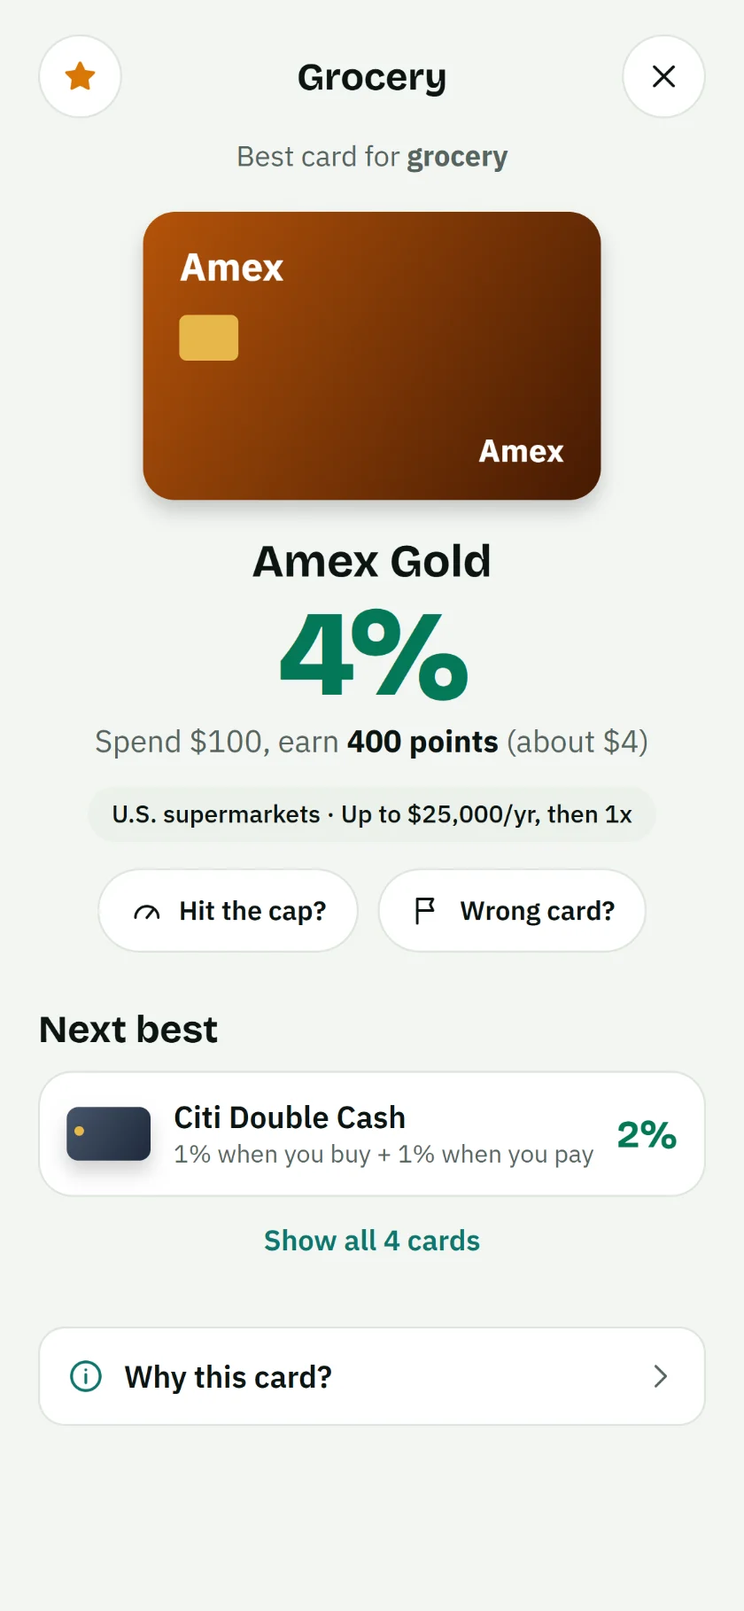
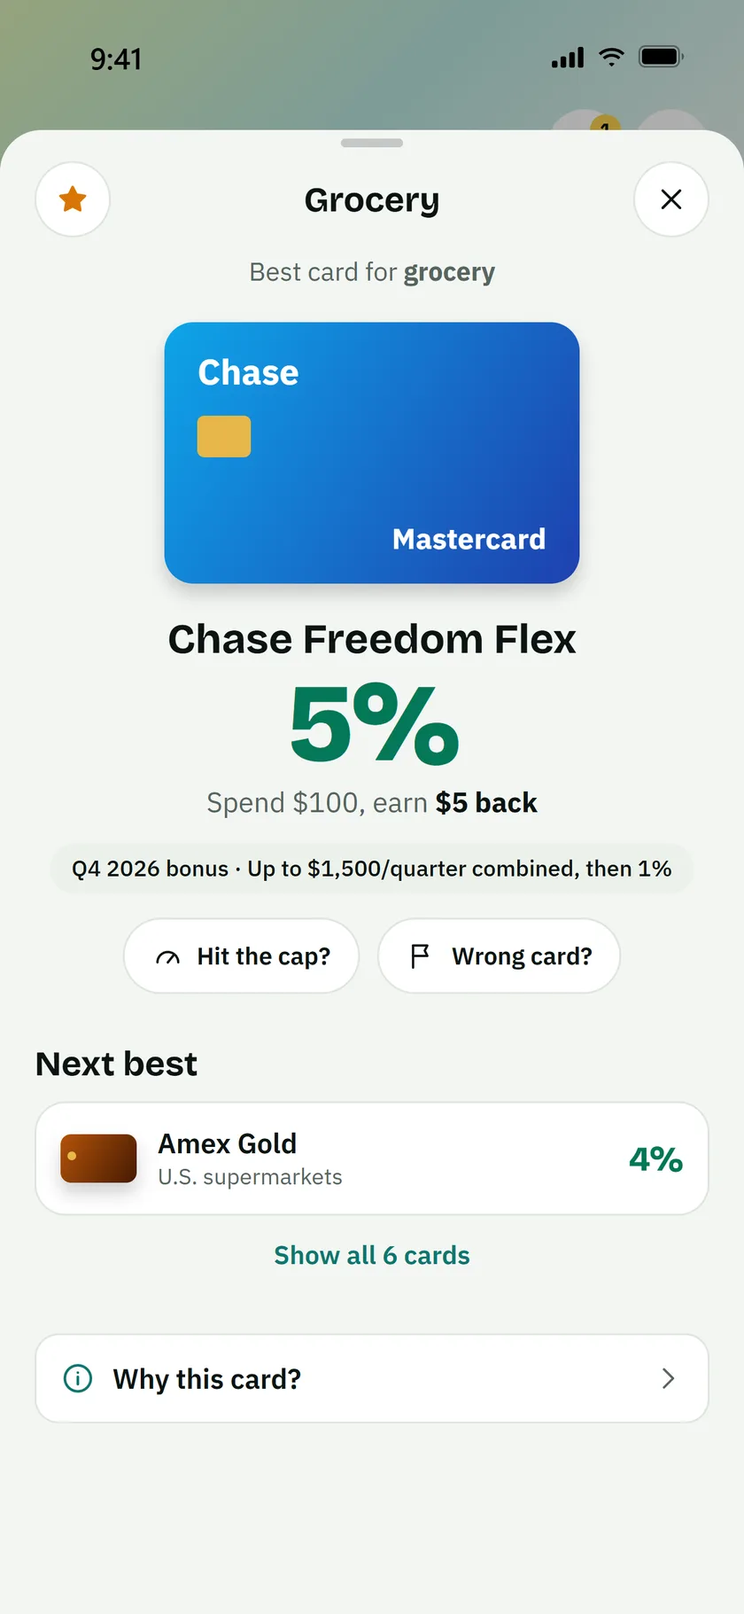
Site: new app screenshots and copy for the latest features
Screenshots retaken from the current native app (made-up wallet) with an
iPhone status bar, tab bar and sheets as on the phone: grocery answer,
Costco (Visa only), Wallet with the quarter's bonuses card, Earn with
favorites, dark wallet on About. New og.png share image.

Copy: quarter card and tips, favorites/recents, reminders on by default,
Data & Privacy paths for backup and erase, feedback sent directly,
110+ cards from 30 banks. Phone frame no longer adds a status-bar gap.

diff --git a/site/index.html b/site/index.html
@@ -45,7 +45,7 @@
   <section class="hero">
     <div class="wrap">
       <div class="hero-copy">
-        <span class="pill-note"><span>New</span>Reminders for quarterly 5% bonuses</span>
+        <span class="pill-note"><span>New</span>This quarter's 5% bonuses at a glance</span>
         <h1><span class="hl">Use the right card.</span> Every time.</h1>
         <p class="lede">Lucro shows which of your credit cards earns the most at any store, in one tap. No bank logins, no card numbers, and nothing leaves your phone.</p>
         <div class="hero-actions" id="get">
@@ -61,7 +61,7 @@
     <div class="hero-stage" aria-hidden="true">
       <div class="float a">
         <div class="float-label">At the grocery store</div>
-        <div class="float-row" style="margin-top:8px"><span class="mini-card"></span><div><div style="font-weight:600">Amex Gold</div><div class="float-big rate">4%</div></div></div>
+        <div class="float-row" style="margin-top:8px"><span class="mini-card flex"></span><div><div style="font-weight:600;white-space:nowrap">Freedom Flex</div><div class="float-big rate">5%</div></div></div>
       </div>
       <div class="float b">
         <div class="float-row"><span class="float-ic"><svg viewBox="0 0 24 24" fill="none" stroke="currentColor" stroke-width="2" stroke-linecap="round" stroke-linejoin="round"><path d="M13 3L5 13.5h6L10 21l8-10.5h-6z"/></svg></span>
@@ -71,7 +71,7 @@
         <span class="float-ic"><svg viewBox="0 0 24 24" fill="none" stroke="currentColor" stroke-width="2" stroke-linecap="round" stroke-linejoin="round"><rect x="5" y="11" width="14" height="10" rx="2"/><path d="M8 11V8a4 4 0 0 1 8 0v3"/></svg></span>
         <div><div class="float-label">App privacy</div><div style="font-weight:600">Data Not Collected</div></div>
       </div>
-      <div class="phone"><img src="assets/img/app-answer.webp" alt="Lucro answer screen: at the grocery store, use Amex Gold for 4% back" width="840" height="1818"></div>
+      <div class="phone"><img src="assets/img/app-answer.webp" alt="Lucro answer screen: at the grocery store, use Chase Freedom Flex for 5% back this quarter, with Amex Gold at 4% as next best" width="840" height="1821"></div>
     </div>
   </section>
 
@@ -79,7 +79,7 @@
     <div class="wrap trust-in">
       <div class="trust-item"><svg viewBox="0 0 24 24" fill="none" stroke="currentColor" stroke-width="1.8" stroke-linecap="round" stroke-linejoin="round" aria-hidden="true"><path d="M12 3l8 3v6c0 4.5-3.4 8.4-8 9-4.6-.6-8-4.5-8-9V6z"/><path d="M9 12l2 2 4-4"/></svg><div><b>No bank logins</b><span>Never asks for passwords or card numbers</span></div></div>
       <div class="trust-item"><svg viewBox="0 0 24 24" fill="none" stroke="currentColor" stroke-width="1.8" stroke-linecap="round" stroke-linejoin="round" aria-hidden="true"><rect x="5" y="11" width="14" height="10" rx="2"/><path d="M8 11V8a4 4 0 0 1 8 0v3"/></svg><div><b>Data not collected</b><span>Your wallet stays on your phone</span></div></div>
-      <div class="trust-item"><svg viewBox="0 0 24 24" fill="none" stroke="currentColor" stroke-width="1.8" stroke-linecap="round" stroke-linejoin="round" aria-hidden="true"><rect x="3" y="5" width="18" height="14" rx="2"/><path d="M3 10h18M7 15h4"/></svg><div><b>90+ cards</b><span>From 25+ banks, kept up to date</span></div></div>
+      <div class="trust-item"><svg viewBox="0 0 24 24" fill="none" stroke="currentColor" stroke-width="1.8" stroke-linecap="round" stroke-linejoin="round" aria-hidden="true"><rect x="3" y="5" width="18" height="14" rx="2"/><path d="M3 10h18M7 15h4"/></svg><div><b>110+ cards</b><span>From 30 banks, kept up to date</span></div></div>
       <div class="trust-item"><svg viewBox="0 0 24 24" fill="none" stroke="currentColor" stroke-width="1.8" stroke-linecap="round" stroke-linejoin="round" aria-hidden="true"><path d="M3 12V4a1 1 0 0 1 1-1h8l9 9-9 9z"/><circle cx="8" cy="8" r="1.5"/></svg><div><b>200+ stores</b><span>Search any store or category</span></div></div>
     </div>
   </section>
@@ -105,42 +105,42 @@
         <div>
           <div class="eyebrow">The right card at every store</div>
           <h2>Stop guessing at <span class="mark">checkout</span></h2>
-          <p class="body">Rotating 5% categories, store-specific bonuses, points versus cash back. Lucro compares every card in your wallet and shows the one that pays you most, in plain dollars.</p>
+          <p class="body">Rotating 5% categories, store-specific bonuses, points versus cash back. Lucro compares every card in your wallet and shows the one that pays you most, in plain dollars, plus the next best card in case the first isn't accepted.</p>
           <ul class="checks">
             <li><svg viewBox="0 0 24 24" fill="none" stroke="currentColor" stroke-width="2" stroke-linecap="round" stroke-linejoin="round" aria-hidden="true"><path d="M5 12l5 5 9-10"/></svg>Points and miles valued fairly against cash back</li>
             <li><svg viewBox="0 0 24 24" fill="none" stroke="currentColor" stroke-width="2" stroke-linecap="round" stroke-linejoin="round" aria-hidden="true"><path d="M5 12l5 5 9-10"/></svg>Knows store rules, like Costco only taking Visa</li>
             <li><svg viewBox="0 0 24 24" fill="none" stroke="currentColor" stroke-width="2" stroke-linecap="round" stroke-linejoin="round" aria-hidden="true"><path d="M5 12l5 5 9-10"/></svg>Spending caps tracked, so you switch cards at the right time</li>
           </ul>
         </div>
-        <div class="split-art"><div class="phone"><img src="assets/img/app-answer.webp" alt="Answer screen showing Amex Gold at 4% for groceries, with Citi Double Cash as next best" loading="lazy" width="840" height="1818"></div></div>
+        <div class="split-art"><div class="phone"><img src="assets/img/app-store.webp" alt="Answer screen for Costco: Costco Visa earns 2%, and Lucro notes that Costco takes only Visa credit cards" loading="lazy" width="840" height="1821"></div></div>
       </div>
 
       <div class="split flip reveal">
         <div>
           <div class="eyebrow">Never miss a bonus</div>
           <h2>Quarterly 5% categories, handled</h2>
-          <p class="body">Many cards make you activate bonuses or pick categories every quarter. Lucro reminds you before the deadline and keeps your picks in sync, so the 5% never slips by.</p>
+          <p class="body">Many cards make you activate bonuses or pick categories every quarter. Your wallet opens with this quarter's bonuses: what each card pays, how many days are left, and a button for anything still to do. Reminders cover the rest, so the 5% never slips by.</p>
           <ul class="checks">
-            <li><svg viewBox="0 0 24 24" fill="none" stroke="currentColor" stroke-width="2" stroke-linecap="round" stroke-linejoin="round" aria-hidden="true"><path d="M5 12l5 5 9-10"/></svg>Reminders a week and a day before activation deadlines</li>
-            <li><svg viewBox="0 0 24 24" fill="none" stroke="currentColor" stroke-width="2" stroke-linecap="round" stroke-linejoin="round" aria-hidden="true"><path d="M5 12l5 5 9-10"/></svg>One tap to confirm next quarter's picks</li>
+            <li><svg viewBox="0 0 24 24" fill="none" stroke="currentColor" stroke-width="2" stroke-linecap="round" stroke-linejoin="round" aria-hidden="true"><path d="M5 12l5 5 9-10"/></svg>Activate, choose or keep your picks right from the wallet</li>
+            <li><svg viewBox="0 0 24 24" fill="none" stroke="currentColor" stroke-width="2" stroke-linecap="round" stroke-linejoin="round" aria-hidden="true"><path d="M5 12l5 5 9-10"/></svg>Reminders when a bonus opens and a week and a day before it's due</li>
             <li><svg viewBox="0 0 24 24" fill="none" stroke="currentColor" stroke-width="2" stroke-linecap="round" stroke-linejoin="round" aria-hidden="true"><path d="M5 12l5 5 9-10"/></svg>Reminders are created on your phone, not on a server</li>
           </ul>
         </div>
-        <div class="split-art"><div class="phone"><img src="assets/img/app-notifications.webp" alt="Notifications screen with a reminder to activate the Q4 bonus by December 14" loading="lazy" width="840" height="1818"></div></div>
+        <div class="split-art"><div class="phone"><img src="assets/img/app-wallet.webp" alt="Wallet screen with a Q4 2026 bonuses card: Chase Freedom Flex 5% to activate by December 14, and U.S. Bank Cash+ picks set" loading="lazy" width="840" height="1821"></div></div>
       </div>
 
       <div class="split reveal">
         <div>
-          <div class="eyebrow">Your wallet, organized</div>
-          <h2>See what every card is best for</h2>
-          <p class="body">Your top rate, your everyday rate, and what each card shines at, all on one screen. Sort, filter, pin favorites, and drag cards into your own order.</p>
+          <div class="eyebrow">Your places, one tap away</div>
+          <h2>Favorites for the stores you visit most</h2>
+          <p class="body">Star any answer to keep it on your Earn screen, next to your recent searches. Anywhere else, type the store name or pick what kind of place it is.</p>
           <ul class="checks">
-            <li><svg viewBox="0 0 24 24" fill="none" stroke="currentColor" stroke-width="2" stroke-linecap="round" stroke-linejoin="round" aria-hidden="true"><path d="M5 12l5 5 9-10"/></svg>"Best for" tags on every card</li>
-            <li><svg viewBox="0 0 24 24" fill="none" stroke="currentColor" stroke-width="2" stroke-linecap="round" stroke-linejoin="round" aria-hidden="true"><path d="M5 12l5 5 9-10"/></svg>Back up to iCloud Drive and restore on a new phone</li>
+            <li><svg viewBox="0 0 24 24" fill="none" stroke="currentColor" stroke-width="2" stroke-linecap="round" stroke-linejoin="round" aria-hidden="true"><path d="M5 12l5 5 9-10"/></svg>Favorites and recents, ready when you get to the register</li>
+            <li><svg viewBox="0 0 24 24" fill="none" stroke="currentColor" stroke-width="2" stroke-linecap="round" stroke-linejoin="round" aria-hidden="true"><path d="M5 12l5 5 9-10"/></svg>Store missing? Request it right from the search</li>
             <li><svg viewBox="0 0 24 24" fill="none" stroke="currentColor" stroke-width="2" stroke-linecap="round" stroke-linejoin="round" aria-hidden="true"><path d="M5 12l5 5 9-10"/></svg>Works offline, even in a store with no signal</li>
           </ul>
         </div>
-        <div class="split-art"><div class="phone"><img src="assets/img/app-wallet.webp" alt="Wallet screen with a 5% top rate, 2% everyday rate and each card's best categories" loading="lazy" width="840" height="1818"></div></div>
+        <div class="split-art"><div class="phone"><img src="assets/img/app-earn.webp" alt="Earn screen greeting Alex, with a store search, favorites like Grocery, Costco and Amazon, and popular categories" loading="lazy" width="840" height="1821"></div></div>
       </div>
     </div>
   </section>
@@ -168,8 +168,12 @@
       <div class="grid4">
         <div class="feat reveal"><div class="feat-ic"><svg viewBox="0 0 24 24" fill="none" stroke="currentColor" stroke-width="1.8" stroke-linecap="round" stroke-linejoin="round" aria-hidden="true"><circle cx="11" cy="11" r="7"/><path d="M20 20l-4-4"/></svg></div><h3>Store search</h3><p>Type a store name and get the winner instantly, or pick a category for local shops.</p></div>
         <div class="feat reveal"><div class="feat-ic"><svg viewBox="0 0 24 24" fill="none" stroke="currentColor" stroke-width="1.8" stroke-linecap="round" stroke-linejoin="round" aria-hidden="true"><path d="M4 6h16M4 12h16M4 18h10"/></svg></div><h3>Category picks</h3><p>For cards where you choose your bonus categories, Lucro uses the ones you picked.</p></div>
-        <div class="feat reveal"><div class="feat-ic"><svg viewBox="0 0 24 24" fill="none" stroke="currentColor" stroke-width="1.8" stroke-linecap="round" stroke-linejoin="round" aria-hidden="true"><path d="M6 8a6 6 0 0 1 12 0c0 7 3 9 3 9H3s3-2 3-9"/><path d="M10.3 21a1.9 1.9 0 0 0 3.4 0"/></svg></div><h3>Deadline reminders</h3><p>Optional heads-ups before bonuses and picks are due. Off until you turn them on.</p></div>
+        <div class="feat reveal"><div class="feat-ic"><svg viewBox="0 0 24 24" fill="none" stroke="currentColor" stroke-width="1.8" stroke-linecap="round" stroke-linejoin="round" aria-hidden="true"><path d="M6 8a6 6 0 0 1 12 0c0 7 3 9 3 9H3s3-2 3-9"/><path d="M10.3 21a1.9 1.9 0 0 0 3.4 0"/></svg></div><h3>Deadline reminders</h3><p>Heads-ups when a bonus opens and before bonuses and picks are due. Choose which ones you get.</p></div>
         <div class="feat reveal"><div class="feat-ic"><svg viewBox="0 0 24 24" fill="none" stroke="currentColor" stroke-width="1.8" stroke-linecap="round" stroke-linejoin="round" aria-hidden="true"><path d="M12 3v12M7 10l5 5 5-5M5 21h14"/></svg></div><h3>Backups you own</h3><p>Save a backup file to iCloud Drive or Files. Restore it any time, on any phone.</p></div>
+        <div class="feat reveal"><div class="feat-ic"><svg viewBox="0 0 24 24" fill="none" stroke="currentColor" stroke-width="1.8" stroke-linecap="round" stroke-linejoin="round" aria-hidden="true"><path d="M8 21h8M12 17v4M7 4h10v5a5 5 0 0 1-10 0z"/><path d="M17 5h3v2a3 3 0 0 1-3 3M7 5H4v2a3 3 0 0 0 3 3"/></svg></div><h3>Wallet tips</h3><p>A fresh tip each time you open your wallet: a place where one of your cards beats your everyday rate.</p></div>
+        <div class="feat reveal"><div class="feat-ic"><svg viewBox="0 0 24 24" fill="none" stroke="currentColor" stroke-width="1.8" stroke-linecap="round" stroke-linejoin="round" aria-hidden="true"><path d="M7 4v16M3 16l4 4 4-4M17 20V4M13 8l4-4 4 4"/></svg></div><h3>Sort, filter, pin</h3><p>Sort by rewards, name or bank, filter by network or fee, and pin the card you reach for most.</p></div>
+        <div class="feat reveal"><div class="feat-ic"><svg viewBox="0 0 24 24" fill="none" stroke="currentColor" stroke-width="1.8" stroke-linecap="round" stroke-linejoin="round" aria-hidden="true"><path d="M5 12l1.5 0M12 3v1.5M3.5 3.5l1 1"/><circle cx="12" cy="12" r="4"/><path d="M12 19.5V21M19.5 12H21M17.3 17.3l1 1M17.3 6.7l1-1M6.7 17.3l-1 1"/></svg></div><h3>Light and dark</h3><p>Follows your phone's setting, or pick light or dark in Profile.</p></div>
+        <div class="feat reveal"><div class="feat-ic"><svg viewBox="0 0 24 24" fill="none" stroke="currentColor" stroke-width="1.8" stroke-linecap="round" stroke-linejoin="round" aria-hidden="true"><path d="M5 21V4h11l-1.5 4L16 12H5"/></svg></div><h3>Spot a wrong answer?</h3><p>Tap Wrong card? and your note comes straight to us, so store and card rules get fixed for everyone.</p></div>
       </div>
     </div>
   </section>

diff --git a/site/support.html b/site/support.html
@@ -56,19 +56,19 @@
     <div class="wrap">
       <div class="section-head reveal"><h2>Frequently asked questions</h2></div>
       <div class="faq" id="faq-list">
-        <details><summary>Which cards does Lucro support?</summary><div class="answer"><p>More than 90 popular cards from over 25 banks, including Chase, American Express, Capital One, Citi, Discover, Bank of America, Wells Fargo and U.S. Bank. Missing one you carry? Email us and we'll look at adding it.</p></div></details>
+        <details><summary>Which cards does Lucro support?</summary><div class="answer"><p>More than 110 popular cards from 30 banks, including Chase, American Express, Capital One, Citi, Discover, Bank of America, Wells Fargo and U.S. Bank. Missing one you carry? Tap Request a card in Profile (or email us) and we'll look at adding it.</p></div></details>
         <details><summary>Do I need to create an account?</summary><div class="answer"><p>No. There's no sign-up, email or password. Open the app, pick the cards you carry, and you're ready.</p></div></details>
         <details><summary>Why doesn't Lucro ask for my bank login or card numbers?</summary><div class="answer"><p>It doesn't need them. Knowing which cards you have is enough to compare their rewards. Lucro will never ask for a full card number, a bank password or access to your accounts. You can optionally add a card's last 4 digits to help you spot it at checkout; they stay on your phone.</p></div></details>
         <details><summary>How does Lucro pick the best card?</summary><div class="answer"><p>For the store or category you choose, Lucro applies each card's published rewards rules: everyday rates, store and category bonuses, rotating quarterly 5% categories, categories you picked, and spending caps you've reached.</p><p>Points and miles are counted at a conservative cents-per-point value so they compare fairly with cash back. Tap "Why this card?" on any answer to see the reasoning.</p></div></details>
         <details><summary>Why are some of my cards missing at Costco?</summary><div class="answer"><p>Costco warehouses in the U.S. only accept Visa credit cards, so Lucro hides cards on other networks there and tells you how many it left out.</p></div></details>
-        <details><summary>What does "activate" mean for quarterly bonuses?</summary><div class="answer"><p>Some cards, like Chase Freedom Flex and Discover it, pay 5% in categories that change every quarter, but only after you activate the bonus with your bank. Tap Activate now in Lucro's notifications to open your bank, then come back and confirm. Lucro counts the bonus once you've marked it activated.</p></div></details>
-        <details><summary>How do category picks work?</summary><div class="answer"><p>Cards like U.S. Bank Cash+ and Bank of America Customized Cash let you choose your bonus categories. Pick the same ones in Lucro that you chose with your bank, and Lucro uses them when ranking. Near the end of each quarter it asks whether to keep the same picks.</p></div></details>
-        <details><summary>How do deadline reminders work?</summary><div class="answer"><p>Turn them on in Profile, then Deadline reminders. Lucro schedules notifications on your phone a week and a day before an activation deadline, when a new quarter's bonus opens, and when it's time to confirm next quarter's picks. Reminders are created on your device, not sent from a server. Turn them off any time in the same place.</p></div></details>
-        <details><summary>How do I back up my wallet or move to a new phone?</summary><div class="answer"><p>In Profile, tap Save a backup file and save it to iCloud Drive or Files. On your new phone, open Lucro and tap Restore it on the welcome screen (or Restore from a backup in Profile) and choose the file. Backups include your cards, picks and favorites, never card numbers.</p></div></details>
-        <details><summary>Lucro picked the wrong card. What should I do?</summary><div class="answer"><p>Tap Wrong card? on the answer and tell us what happened. Your report is saved in Notifications, where you can share it with us. Reports help us fix store categories and card terms for everyone.</p></div></details>
+        <details><summary>What does "activate" mean for quarterly bonuses?</summary><div class="answer"><p>Some cards, like Chase Freedom Flex and Discover it, pay 5% in categories that change every quarter, but only after you activate the bonus with your bank. Tap Activate on the quarter's bonuses at the top of your Wallet (or in Notifications) to open your bank, then come back and confirm. Lucro counts the bonus once you've marked it activated.</p></div></details>
+        <details><summary>How do category picks work?</summary><div class="answer"><p>Cards like U.S. Bank Cash+ and Bank of America Customized Cash let you choose your bonus categories. Pick the same ones in Lucro that you chose with your bank, and Lucro uses them when ranking. You can choose them right from the quarter's bonuses in your Wallet, and near the end of each quarter Lucro asks whether to keep the same picks.</p></div></details>
+        <details><summary>How do deadline reminders work?</summary><div class="answer"><p>The first time your wallet has a card with quarterly deadlines, Lucro asks if it can send you notifications. It then schedules them on your phone when a new quarter's bonus opens, a week and a day before an activation deadline, and when it's time to choose next quarter's picks. Reminders are created on your device, not sent from a server. To choose which ones you get, open Profile, then Notifications.</p></div></details>
+        <details><summary>How do I back up my wallet or move to a new phone?</summary><div class="answer"><p>In Profile, open Data &amp; Privacy, tap Save a backup file and save it to iCloud Drive or Files. On your new phone, open Lucro and tap Restore it on the welcome screen (or Restore from a backup in Data &amp; Privacy) and choose the file. Backups include your cards, picks and favorites, never card numbers.</p></div></details>
+        <details><summary>Lucro picked the wrong card. What should I do?</summary><div class="answer"><p>Tap Wrong card? on the answer, tell us what happened and tap Submit. It comes straight to us with only what you entered there, never your wallet. If you're offline, it's sent the next time you open Lucro. Reports help us fix store categories and card terms for everyone.</p></div></details>
         <details><summary>I hit a spending cap. How do I tell Lucro?</summary><div class="answer"><p>On the answer, tap Hit the cap? Lucro skips that bonus until it resets (monthly, quarterly or yearly) and shows the next best card instead. You can undo it in the card's details.</p></div></details>
         <details><summary>Does Lucro work without internet?</summary><div class="answer"><p>Yes. Everything runs on your phone. When you're online, Lucro quietly checks for updated card terms.</p></div></details>
-        <details><summary>How do I delete my data?</summary><div class="answer"><p>Your data is only on your phone, so you're in control. In Profile, tap Erase all data, or simply delete the app. We don't hold a copy anywhere.</p></div></details>
+        <details><summary>How do I delete my data?</summary><div class="answer"><p>Your data is only on your phone, so you're in control. In Profile, open Data &amp; Privacy and tap Erase all data, or simply delete the app. We don't hold a copy anywhere.</p></div></details>
         <details><summary>Is Lucro free?</summary><div class="answer"><p>Yes, Lucro is free to use. If we ever add paid extras, the core answer of which card to use will stay free.</p></div></details>
       </div>
       <p class="no-results">No questions match that search. Try another word, or <a href="#contact">email us</a>.</p>
@@ -79,7 +79,7 @@
     <div class="wrap">
       <div class="section-head reveal"><div class="eyebrow">Quick fixes</div><h2>Troubleshooting</h2></div>
       <div class="cards3">
-        <div class="card reveal"><div class="feat-ic"><svg viewBox="0 0 24 24" fill="none" stroke="currentColor" stroke-width="1.8" stroke-linecap="round" stroke-linejoin="round" aria-hidden="true"><path d="M6 8a6 6 0 0 1 12 0c0 7 3 9 3 9H3s3-2 3-9"/><path d="M10.3 21a1.9 1.9 0 0 0 3.4 0"/></svg></div><h3>Reminders aren't arriving</h3><p>Check that notifications are allowed for Lucro in your phone's Settings, and that Deadline reminders is on in Profile. Reminders only appear for cards that need activation or picks.</p></div>
+        <div class="card reveal"><div class="feat-ic"><svg viewBox="0 0 24 24" fill="none" stroke="currentColor" stroke-width="1.8" stroke-linecap="round" stroke-linejoin="round" aria-hidden="true"><path d="M6 8a6 6 0 0 1 12 0c0 7 3 9 3 9H3s3-2 3-9"/><path d="M10.3 21a1.9 1.9 0 0 0 3.4 0"/></svg></div><h3>Reminders aren't arriving</h3><p>Check that notifications are allowed for Lucro in your phone's Settings, and that the reminders you want are on in Profile, then Notifications. Reminders only appear for cards that need activation or picks.</p></div>
         <div class="card reveal"><div class="feat-ic"><svg viewBox="0 0 24 24" fill="none" stroke="currentColor" stroke-width="1.8" stroke-linecap="round" stroke-linejoin="round" aria-hidden="true"><path d="M3 12a9 9 0 1 0 3-6.7L3 8"/><path d="M3 3v5h5"/></svg></div><h3>A restore didn't work</h3><p>Make sure you chose a Lucro backup file (it's named like lucro-backup-2026-10-05.json). Backups from the Lucro web app work too.</p></div>
         <div class="card reveal"><div class="feat-ic"><svg viewBox="0 0 24 24" fill="none" stroke="currentColor" stroke-width="1.8" stroke-linecap="round" stroke-linejoin="round" aria-hidden="true"><path d="M20 12a8 8 0 0 1-14 5.3M4 12a8 8 0 0 1 14-5.3"/><path d="M18 3v4h-4M6 21v-4h4"/></svg></div><h3>A rate looks out of date</h3><p>Open Lucro while connected to the internet so it can fetch the latest card terms. Still wrong? Tap Wrong card? and let us know.</p></div>
       </div>

diff --git a/site/about.html b/site/about.html
@@ -60,7 +60,7 @@
           <p class="body">Lucro started with one question asked at a checkout line: "Which card should I use here?" The answer depends on the store's category, rotating 5% bonuses, categories you picked, spending caps, and what points are actually worth. Lucro keeps track of all of it so you don't have to.</p>
           <p class="body">The name comes from the word for <em>profit</em> in Spanish and Portuguese, because that's the point: a little more back on everything you already buy.</p>
         </div>
-        <div class="split-art"><div class="phone"><img src="assets/img/app-wallet.webp" alt="Lucro wallet screen showing each card's best categories" loading="lazy" width="840" height="1818"></div></div>
+        <div class="split-art"><div class="phone"><img src="assets/img/app-wallet-dark.webp" alt="Lucro wallet in dark mode: this quarter's bonuses, a tip, and each card's best categories" loading="lazy" width="840" height="1821"></div></div>
       </div>
     </div>
   </section>
@@ -80,7 +80,7 @@
   <section class="section">
     <div class="wrap">
       <div class="cards3">
-        <div class="card reveal"><div class="feat-ic"><svg viewBox="0 0 24 24" fill="none" stroke="currentColor" stroke-width="1.8" stroke-linecap="round" stroke-linejoin="round" aria-hidden="true"><rect x="3" y="5" width="18" height="14" rx="2"/><path d="M3 10h18M7 15h4"/></svg></div><h3>90+ cards, 25+ banks</h3><p>Chase, American Express, Capital One, Citi, Discover, Bank of America, Wells Fargo, U.S. Bank and more, with store rules for 200+ merchants.</p></div>
+        <div class="card reveal"><div class="feat-ic"><svg viewBox="0 0 24 24" fill="none" stroke="currentColor" stroke-width="1.8" stroke-linecap="round" stroke-linejoin="round" aria-hidden="true"><rect x="3" y="5" width="18" height="14" rx="2"/><path d="M3 10h18M7 15h4"/></svg></div><h3>110+ cards, 30 banks</h3><p>Chase, American Express, Capital One, Citi, Discover, Bank of America, Wells Fargo, U.S. Bank and more, with store rules for 200+ merchants.</p></div>
         <div class="card reveal"><div class="feat-ic"><svg viewBox="0 0 24 24" fill="none" stroke="currentColor" stroke-width="1.8" stroke-linecap="round" stroke-linejoin="round" aria-hidden="true"><path d="M20 12a8 8 0 0 1-14 5.3M4 12a8 8 0 0 1 14-5.3"/><path d="M18 3v4h-4M6 21v-4h4"/></svg></div><h3>Kept up to date</h3><p>When banks change their terms or announce new quarterly categories, Lucro's card data is updated, and the app picks it up automatically.</p></div>
         <div class="card reveal"><div class="feat-ic"><svg viewBox="0 0 24 24" fill="none" stroke="currentColor" stroke-width="1.8" stroke-linecap="round" stroke-linejoin="round" aria-hidden="true"><rect x="3" y="5" width="18" height="14" rx="2"/><path d="M3.5 6.5l8.5 6.5 8.5-6.5"/></svg></div><h3>Real people behind it</h3><p>Lucro is built by a small independent team. Questions or ideas? Write to us at <a data-ph="email" href="mailto:info@lucrorewards.com">info@lucrorewards.com</a>. We read every message.</p></div>
       </div>

diff --git a/site/assets/site.css b/site/assets/site.css
@@ -97,9 +97,9 @@ p { margin: 0; }
 .hero-stage { position: relative; height: 560px; margin-top: 56px; display: flex; justify-content: center; }
 
 /* Phone frame */
-.phone { position: relative; width: 300px; aspect-ratio: 840 / 1818; border-radius: 46px; background: #0b1412; padding: 11px; box-shadow: 0 0 0 1px rgba(11, 20, 18, .08), 0 30px 80px rgba(11, 20, 18, .22), 0 8px 24px rgba(11, 20, 18, .12); }
-.phone img { width: 100%; height: 100%; object-fit: cover; object-position: top; border-radius: 36px; background: #f3f6f2; padding-top: 13%; } /* status-bar gap so the notch never covers the screen */
-.phone::before { content: ""; position: absolute; top: 20px; left: 50%; width: 92px; height: 26px; margin-left: -46px; border-radius: 20px; background: #0b1412; z-index: 2; }
+.phone { position: relative; width: 300px; aspect-ratio: 840 / 1821; border-radius: 46px; background: #0b1412; padding: 11px; box-shadow: 0 0 0 1px rgba(11, 20, 18, .08), 0 30px 80px rgba(11, 20, 18, .22), 0 8px 24px rgba(11, 20, 18, .12); }
+.phone img { display: block; width: 100%; height: 100%; object-fit: cover; object-position: top; border-radius: 36px; background: #f3f6f2; } /* screenshots include the iPhone status bar */
+.phone::before { content: ""; position: absolute; top: 2.7%; left: 50%; width: 29%; height: 3.6%; transform: translateX(-50%); border-radius: 999px; background: #0b1412; z-index: 2; } /* Dynamic Island, sized to the screenshot's status bar */
 .hero-stage .phone { position: absolute; top: 0; }
 
 /* Floating stat cards (Quicken's net-worth cards) */
@@ -114,6 +114,7 @@ p { margin: 0; }
 .float.b { right: calc(50% - 440px); top: 210px; }
 .float.c { left: calc(50% - 400px); top: 330px; }
 .mini-card { width: 56px; height: 36px; border-radius: 7px; background: linear-gradient(135deg, #b45309, #451a03); position: relative; flex-shrink: 0; }
+.mini-card.flex { background: linear-gradient(135deg, #0ea5e9, #1e40af); }
 .mini-card::after { content: ""; position: absolute; left: 8px; top: 12px; width: 10px; height: 8px; border-radius: 2px; background: #e7b84a; }
 
 /* Privacy label badge (like Quicken's award badge) */
@@ -287,7 +288,7 @@ p { margin: 0; }
   .hero-stage .phone { width: 250px; }
   .float { padding: 12px 14px; border-radius: 14px; }
   .float-big { font-size: 22px; }
-  .float.a { left: 0; top: 40px; width: 190px; }
+  .float.a { left: 0; top: 40px; width: auto; }
   .float.b { right: 0; top: 250px; }
   .float.c { display: none; }
   .pill-note { font-size: 13px; padding: 5px 12px 5px 5px; }

diff --git a/site/privacy.html b/site/privacy.html
@@ -107,7 +107,7 @@
       <p>Lucro is meant for adults who use credit cards. It isn't directed at children under 13, and we don't knowingly collect information from them.</p>
 
       <h2 id="rights">9. Your choices</h2>
-      <p>Because your data is stored only on your device, you're always in control. You can edit or remove anything in the app, use Profile, then Erase all data to delete everything, or delete the app. We don't hold a copy, so there's nothing for us to delete or hand over. If you've emailed us and want that correspondence deleted, just ask.</p>
+      <p>Because your data is stored only on your device, you're always in control. You can edit or remove anything in the app, use Profile, then Data &amp; Privacy, then Erase all data to delete everything, or delete the app. We don't hold a copy, so there's nothing for us to delete or hand over. If you've emailed us and want that correspondence deleted, just ask.</p>
       <p>We don't sell or share personal information as those terms are defined under U.S. state privacy laws such as the California Consumer Privacy Act.</p>
 
       <h2 id="changes">10. Changes to this policy</h2>

diff --git a/site/README.md b/site/README.md
@@ -49,5 +49,8 @@ and update them if the app ever starts collecting data.
 
 ## Updating the app screenshots
 The phone images in `assets/img/` are real screens from the native app (`mobile/`), rendered with
-`npx expo export --platform web` and a made-up wallet, then saved as WebP at 840px wide.
+`npx expo export --platform web` and a made-up wallet ("Alex"; date fixed to Oct 20, 2026), then saved as WebP at 840px wide.
+They are captured at 430×932 (iPhone 6.9") with an iPhone status bar and the floating tab bar drawn in, and sheets shown
+over the dimmed Earn screen like on the phone, so `.phone` in `site.css` adds no gap of its own.
+The full-size versions (1290×2796 PNG, App Store 6.9" size) are in `mobile/store/screenshots/`.
 `og.png` (1200×630) is the image shown when the site is shared on social media or in messages.
